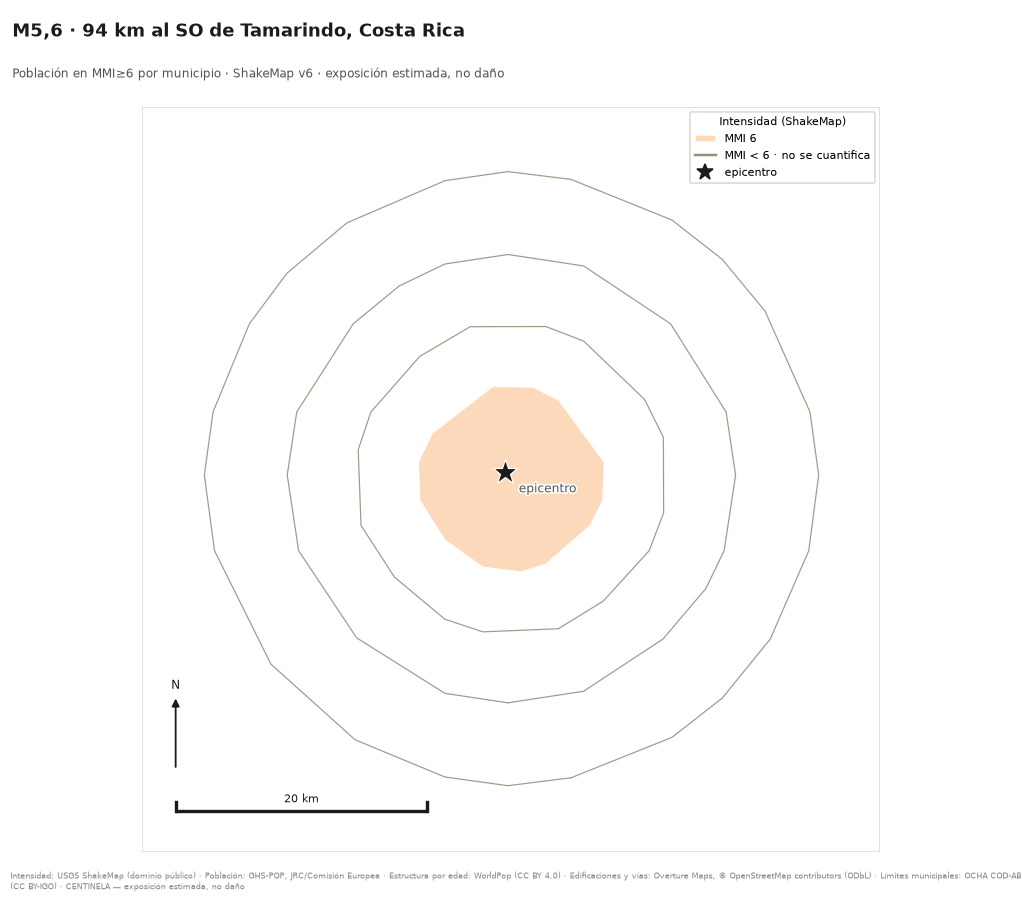
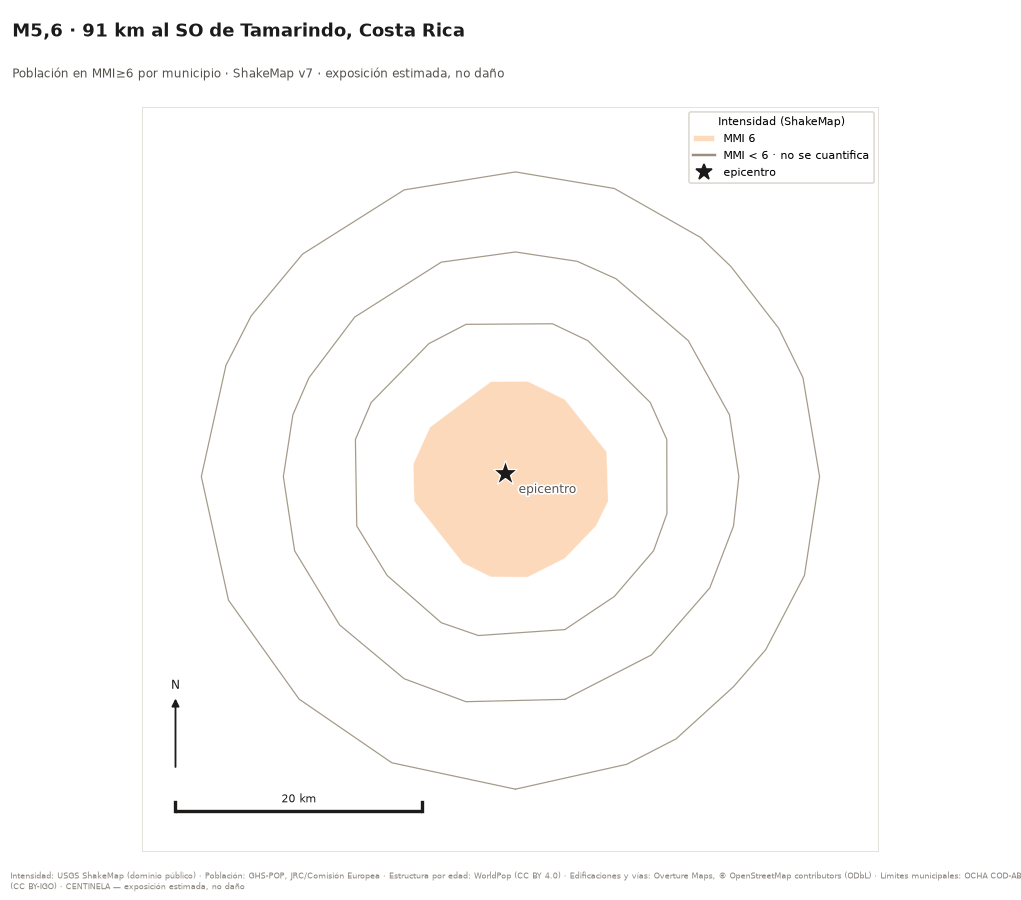
P3: reporte de us6000tymj

diff --git a/reports/us6000tymj/report.md b/reports/us6000tymj/report.md
@@ -1,4 +1,4 @@
-# Exposición sísmica: M5,6 · 94 km al SO de Tamarindo, Costa Rica
+# Exposición sísmica: M5,6 · 91 km al SO de Tamarindo, Costa Rica
 
 **Evento USGS:** `us6000tymj` · **Origen:** 2026-09-30T21:55:27Z UTC · **Profundidad:** 8,0 km
 
@@ -26,7 +26,7 @@ Ninguna banda de intensidad alcanza población, así que la única cifra que dim
 |---|---:|
 | 25 km | 0 |
 | 50 km | 0 |
-| 100 km | 22 mil |
+| 100 km | 28 mil |
 
 Los radios **no son bandas de intensidad**. Aquí no hay modelo de sacudida, solo distancia: un sismo superficial y uno profundo de la misma magnitud tienen el mismo circulo y no se parecen en nada. La cifra sirve para dimensionar, no para priorizar.
 
@@ -44,10 +44,13 @@ Las dos cifras **no se tabulan igual** y no se pueden leer una contra otra: PAGE
 
 Discrepancia entre GHS-POP y WorldPop: **no se pudo medir**. Ninguna celda dentro de las bandas publicadas tiene población de WorldPop con la que contrastar.
 
-- El epicentro está a 87 km de la población más cercana del país con la que se comparó. La sacudida no alcanzó territorio habitado.
+- El epicentro está a 84 km de la población más cercana del país con la que se comparó. La sacudida no alcanzó territorio habitado.
 
 ## Cambios frente a la versión anterior
 
+- ShakeMap: v6 → v7 (us)
+- Epicentro: reubicado 4 km
+- Ninguna cifra publicada cambia frente a la versión anterior.
 - ShakeMap: v5 → v6
 - Ninguna cifra publicada cambia frente a la versión anterior.
 
@@ -58,10 +61,10 @@ Discrepancia entre GHS-POP y WorldPop: **no se pudo medir**. Ninguna celda dentr
 
 ## Procedencia
 
-- ShakeMap consumido: **v6**
+- ShakeMap consumido: **v7** de `us`
 - Ground Failure consumido: **ninguno** (no publicado aún)
 - Manifiesto de exposición: [`cri-v0.4`](https://github.com/sforero77/CENTINELA/blob/main/data/manifests/CRI.yaml)
-- Pipeline: `0.1.0` · Generado: 2026-10-02T11:18:28Z
+- Pipeline: `0.1.0` · Generado: 2026-10-08T12:01:12Z
 
 ## Advertencias
 
